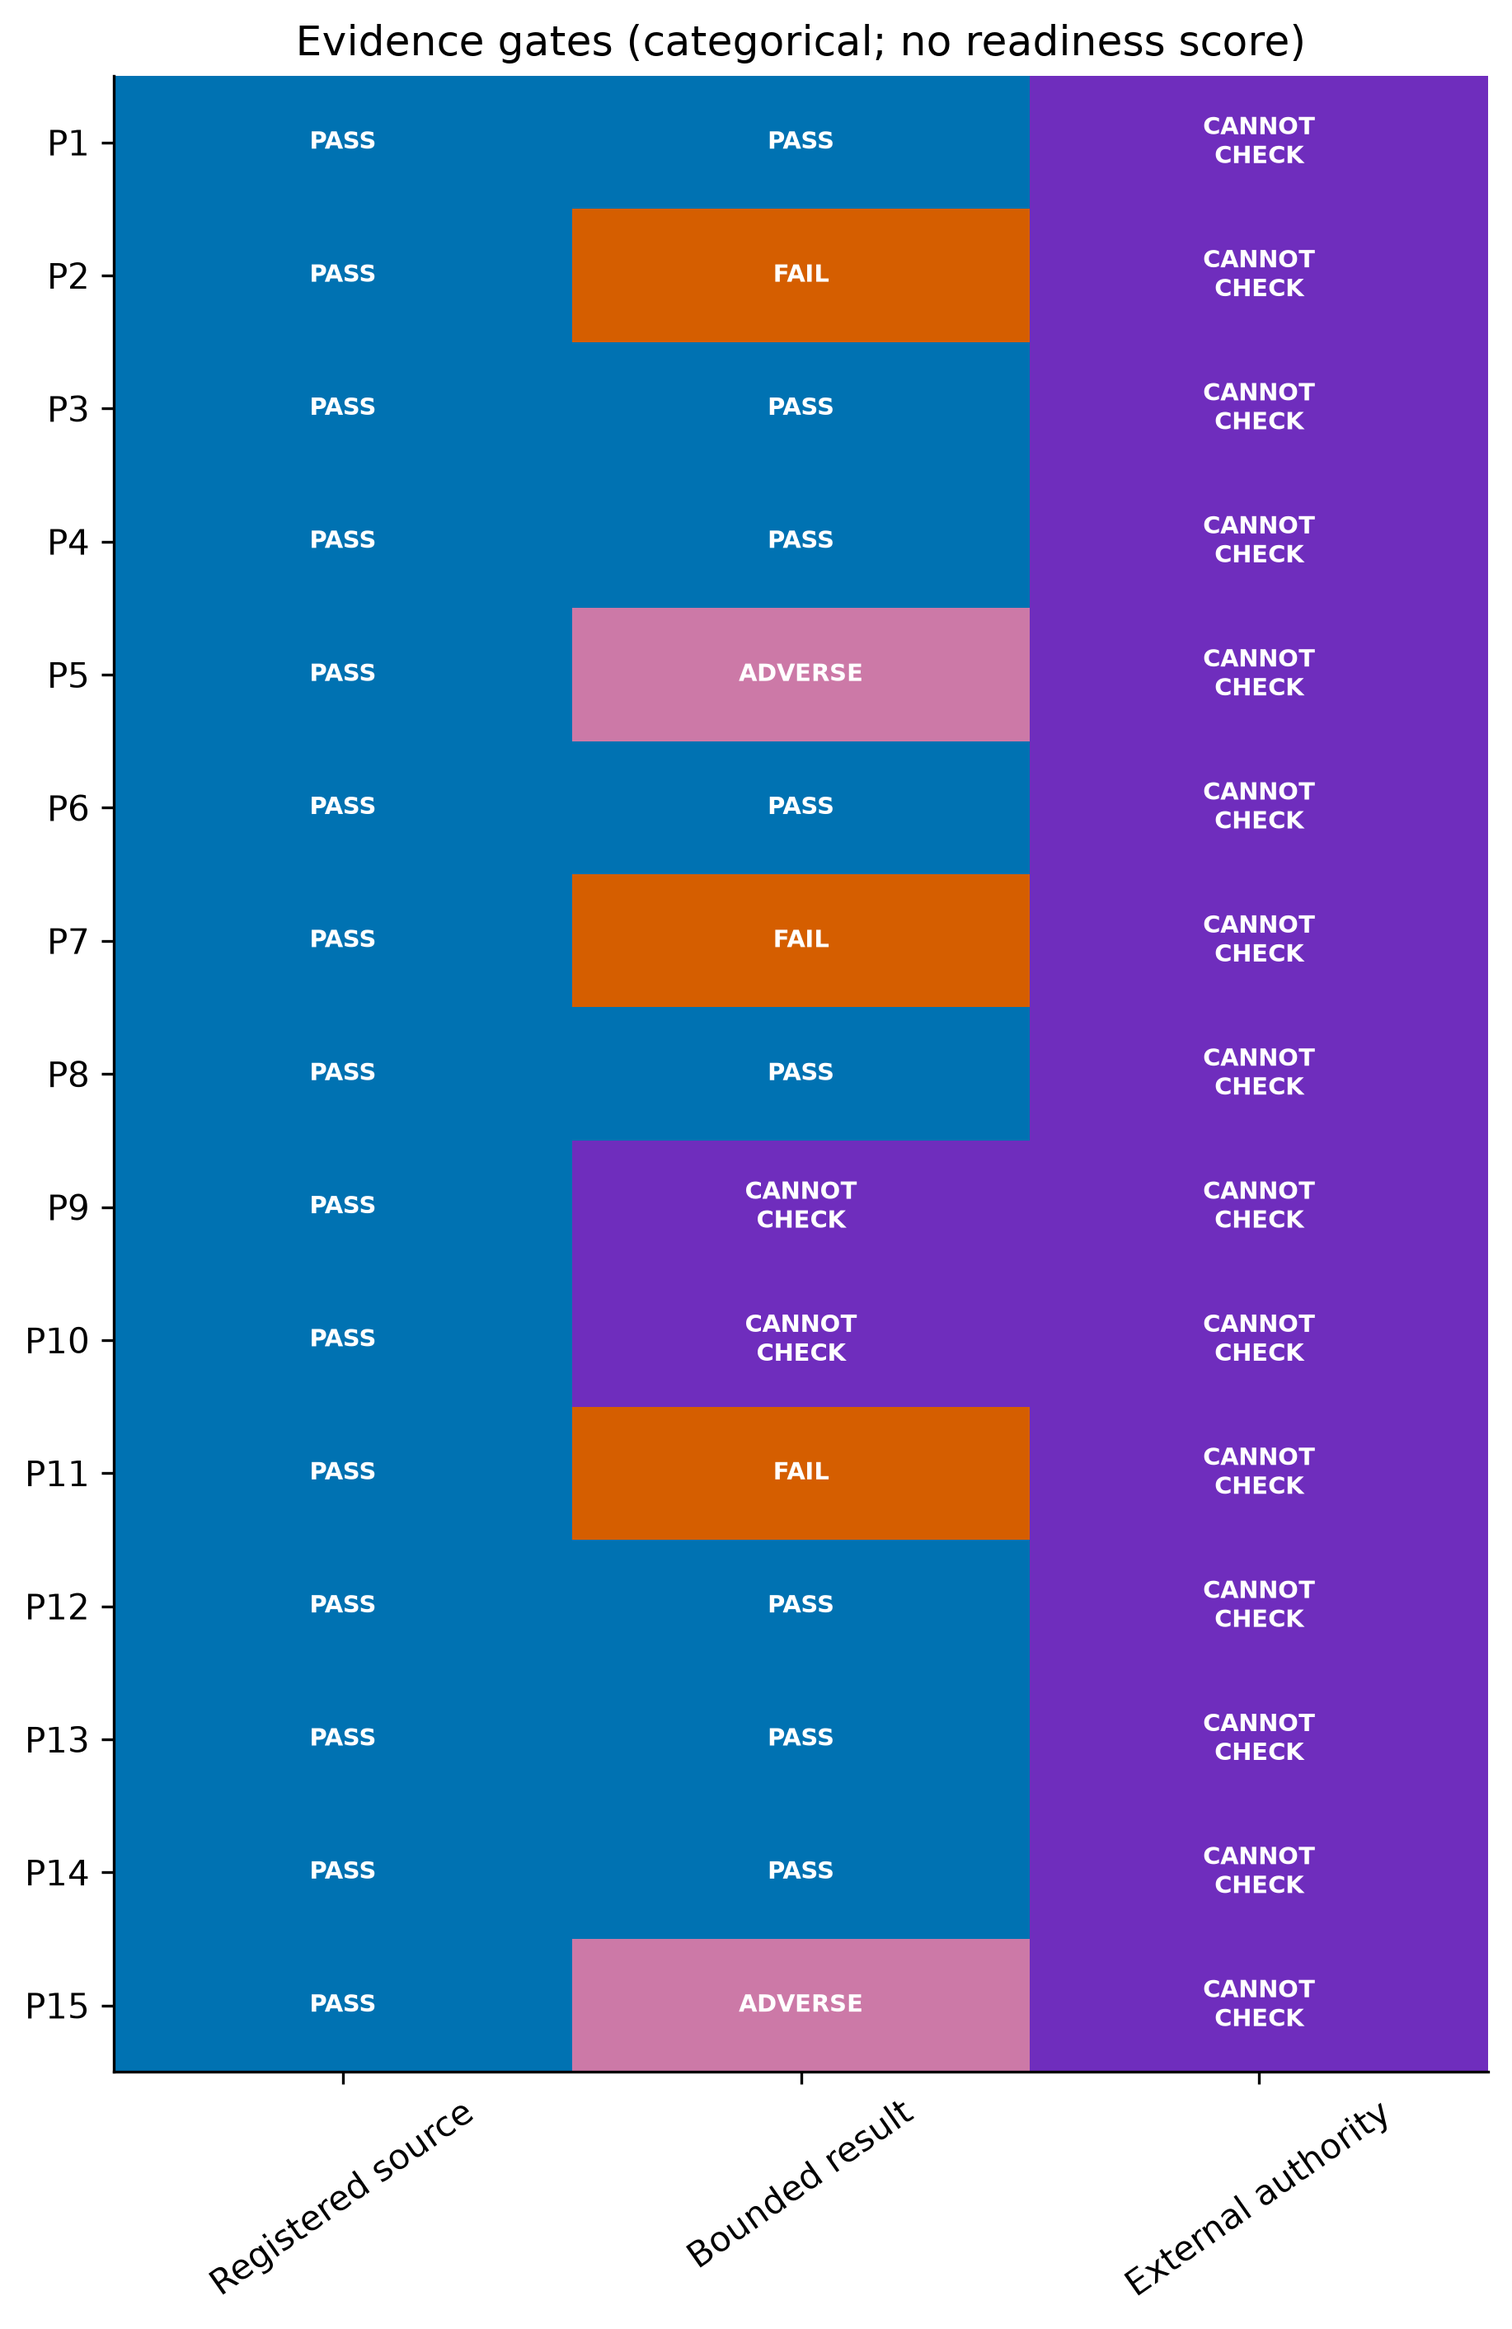
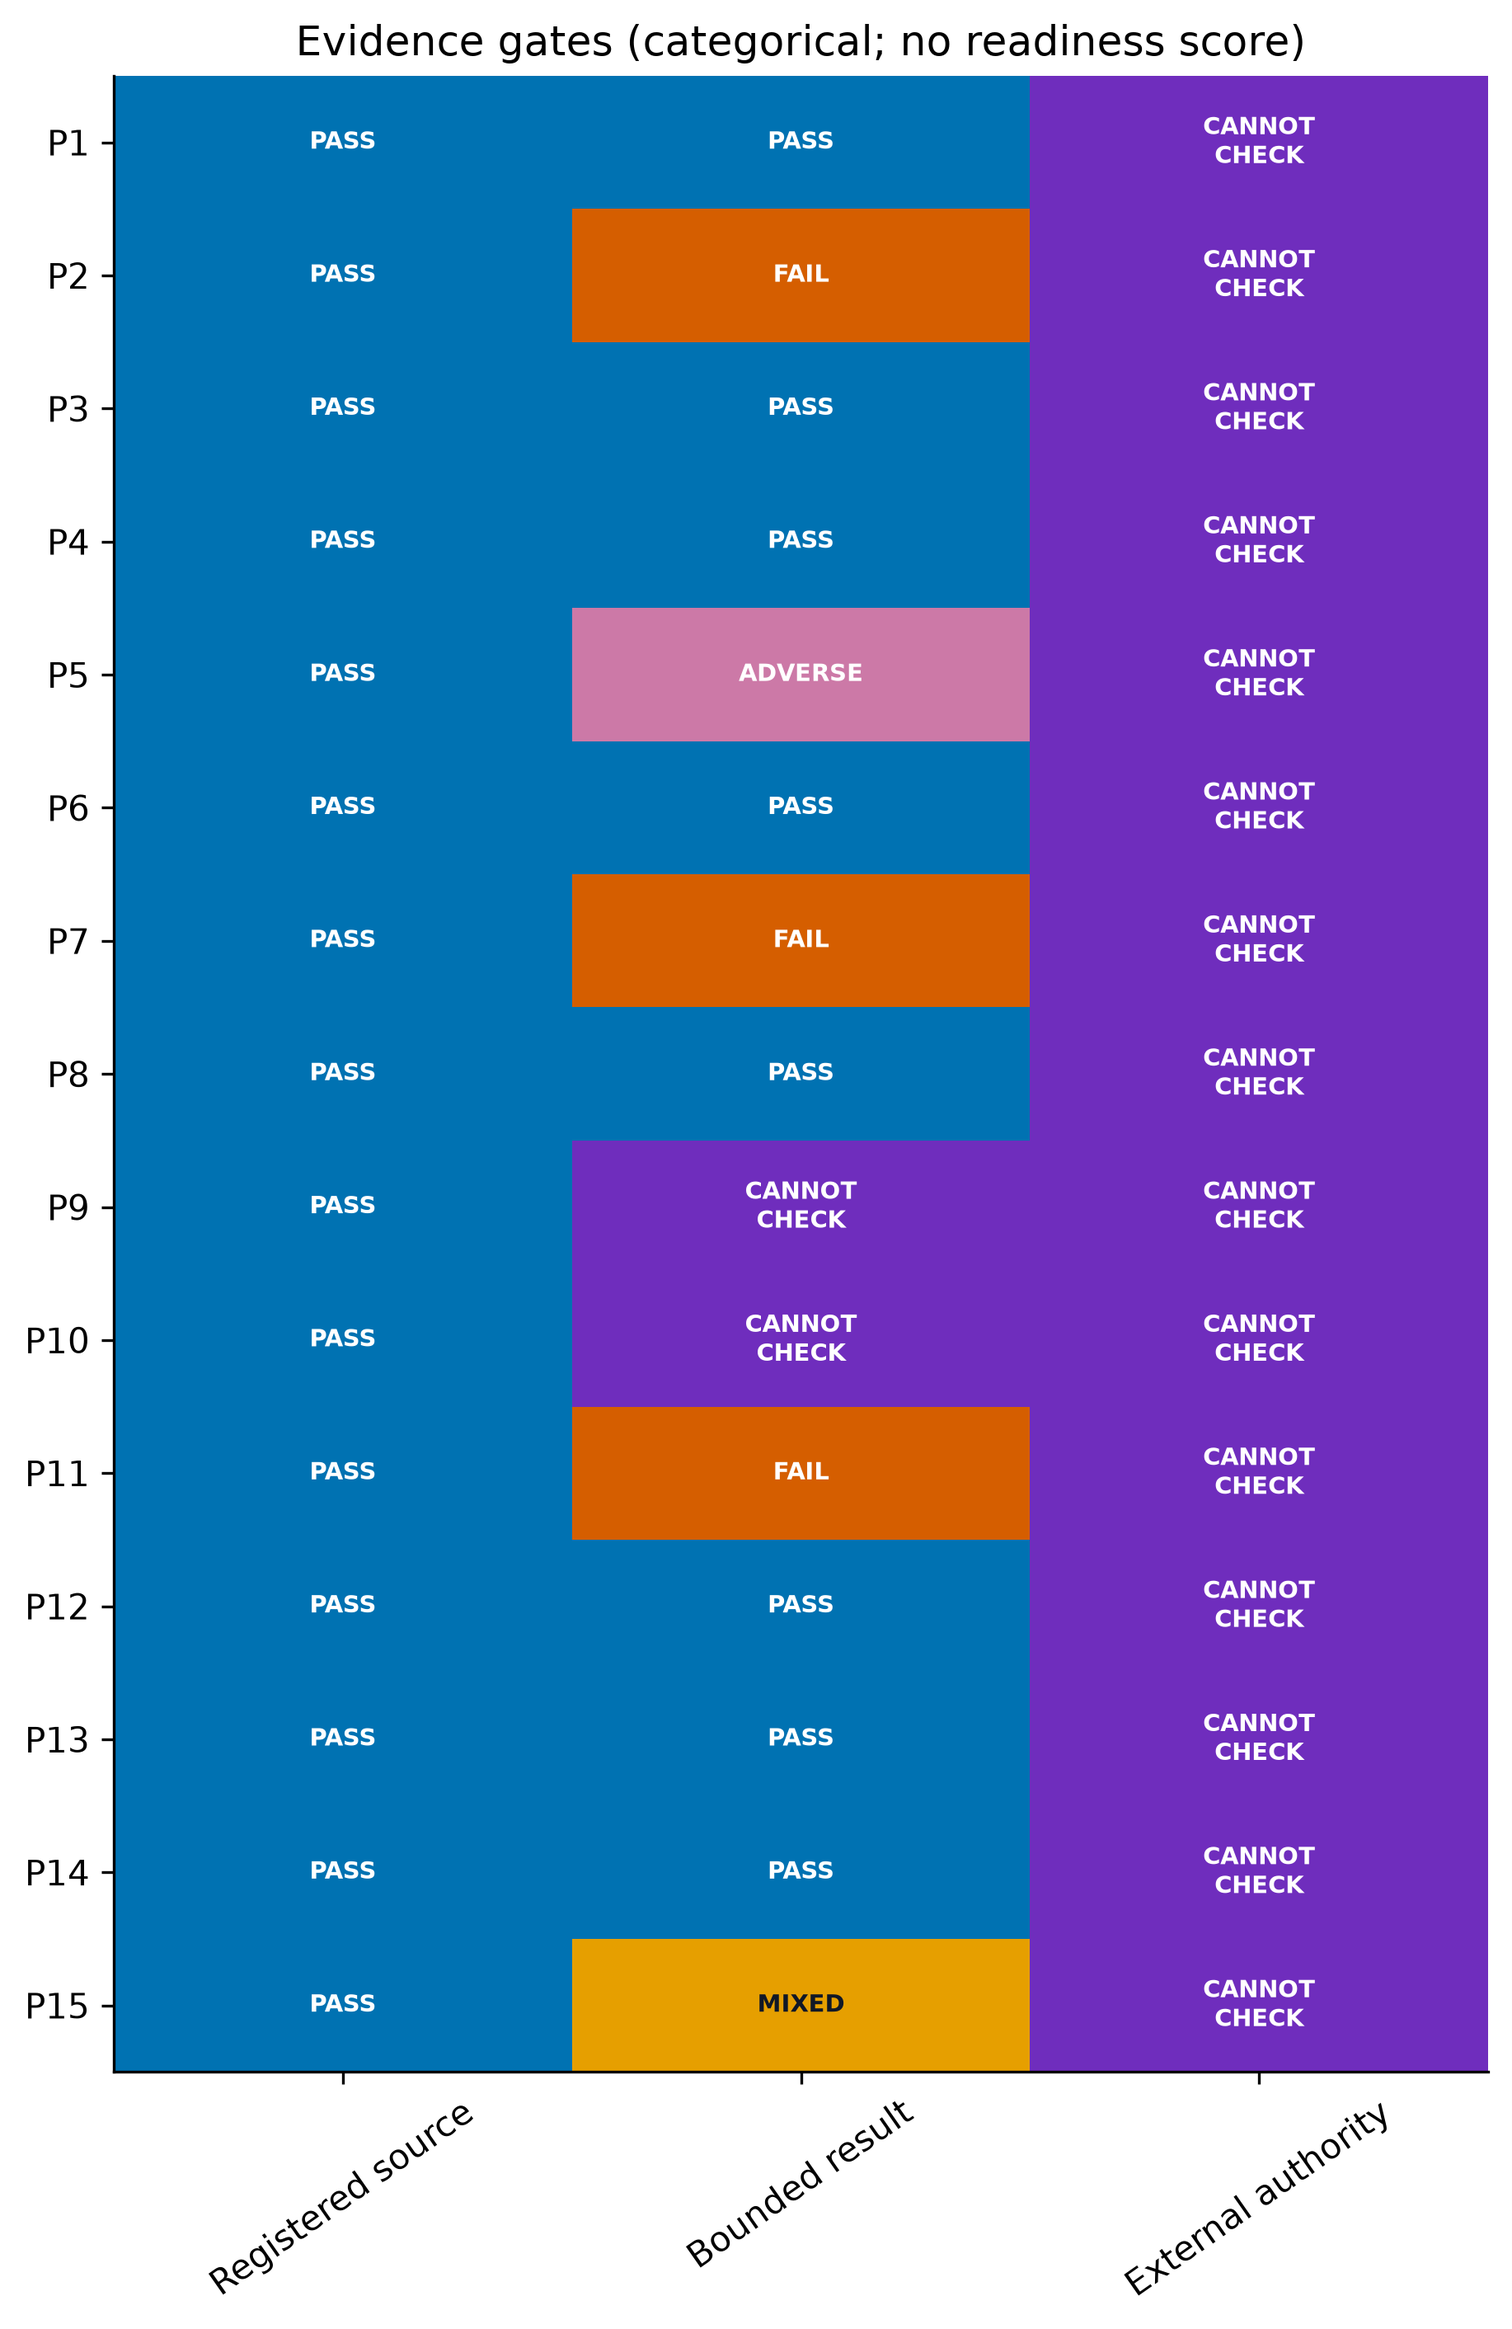
fix visualization status and notebook fidelity

Changed region(s): [[0.373, 0.8102, 0.6838, 0.9037]]

diff --git a/visualization/tests/test_atlas.py b/visualization/tests/test_atlas.py
@@ -3,6 +3,7 @@ from __future__ import annotations
 import importlib.util
 import hashlib
 import json
+import os
 from pathlib import Path
 
 
@@ -21,6 +22,26 @@ def load_script(name: str):
     module = importlib.util.module_from_spec(spec)
     spec.loader.exec_module(module)
     return module
+
+
+def execute_notebook_with_parameters(name: str, overrides: dict[str, object]) -> dict:
+    notebook = json.loads((VIS / "notebooks" / name).read_text(encoding="utf-8"))
+    namespace: dict[str, object] = {"__name__": "__review_test__"}
+    previous = Path.cwd()
+    try:
+        os.chdir(VIS)
+        for index, cell in enumerate(notebook["cells"]):
+            if cell["cell_type"] != "code":
+                continue
+            source = "".join(cell.get("source", []))
+            exec(compile(source, f"{name}:{index}", "exec"), namespace, namespace)
+            if "plt" in namespace:
+                namespace["plt"].show = lambda *args, **kwargs: None
+            if "parameters" in cell.get("metadata", {}).get("tags", []):
+                namespace.update(overrides)
+        return namespace
+    finally:
+        os.chdir(previous)
 
 
 def test_atlas_has_exact_canonical_paper_and_source_counts() -> None:
@@ -189,6 +210,43 @@ def test_notebooks_are_valid_json_with_latex_parameters_and_compilable_code() ->
                 compile("".join(cell.get("source", [])), f"{path.name}:{index}", "exec")
 
 
+def test_governance_notebook_nondefault_metric_uses_neutral_dynamic_copy() -> None:
+    namespace = execute_notebook_with_parameters(
+        "03_p11_p15_state_governance_harness.ipynb",
+        {"METRIC_NAME": "compiled_minus_universal_delta", "MIN_VALUE": None},
+    )
+    ax = namespace["ax"]
+    assert len(namespace["selected_metrics"]) == 30
+    assert "compiled minus universal delta" in ax.get_title().lower()
+    assert "unsafe reuse" not in ax.get_title().lower()
+    assert "p13" not in ax.get_title().lower()
+    assert "lower is better" not in ax.get_xlabel().lower()
+
+
+def test_anomaly_notebook_has_no_unsupported_ordinal_severity_filter() -> None:
+    path = VIS / "notebooks/04_anomaly_audit.ipynb"
+    notebook = json.loads(path.read_text(encoding="utf-8"))
+    code = "\n".join(
+        "".join(cell.get("source", []))
+        for cell in notebook["cells"]
+        if cell["cell_type"] == "code"
+    )
+    assert "SEVERITY_RANK" not in code
+    assert "MIN_SEVERITY_RANK" not in code
+
+    namespace = execute_notebook_with_parameters(path.name, {})
+    assert len(namespace["selected_anomalies"]) == 14
+    assert {row["severity"] for row in namespace["selected_anomalies"]} == {
+        "ADVERSE",
+        "BOUNDARY",
+        "CANNOT_CHECK",
+        "FAIL",
+        "MIXED",
+        "NOT_AUTHORITY",
+        "NULL",
+    }
+
+
 def test_interactive_html_is_self_contained_and_filterable() -> None:
     text = (VIS / "figures/interactive/evidence_atlas.html").read_text(encoding="utf-8")
     lower = text.lower()
@@ -210,6 +268,11 @@ def test_interactive_html_is_self_contained_and_filterable() -> None:
 
 
 def test_figure_copy_separates_receipt_disposition_from_external_authority() -> None:
+    gate_svg = (VIS / "figures/static/svg/01_paper_gate_matrix.svg").read_text(
+        encoding="utf-8"
+    )
+    assert ">MIXED<" in gate_svg
+
     p15_svg = (VIS / "figures/static/svg/12_p15_workflow_matrix.svg").read_text(
         encoding="utf-8"
     )

diff --git a/visualization/scripts/make_notebooks.py b/visualization/scripts/make_notebooks.py
@@ -681,13 +681,19 @@ if selected_metrics:
     values = [numeric_value(row) for row in rows]
     unit = str(first(rows[0], "unit", default="receipt unit"))
     metric_label = human_label(METRIC_NAME, 40)
+    is_unsafe_reuse = METRIC_NAME == "unsafe_reuse_rate"
+    direction_note = "; lower is better" if is_unsafe_reuse else ""
     y = list(range(len(values)))
     bars = ax.barh(y, values, height=0.62, color="#455a64")
     ax.set_yticks(y, labels)
     ax.invert_yaxis()
-    ax.set_xlabel(f"{metric_label} ({unit}; lower is better)")
-    ax.set_ylabel("paper and arm")
-    ax.set_title("Unsafe reuse by P13 control arm (bounded internal receipts)")
+    ax.set_xlabel(f"{metric_label} ({unit}{direction_note})")
+    ax.set_ylabel("paper and receipt row")
+    ax.set_title(
+        "Unsafe reuse by P13 control arm (bounded internal receipts)"
+        if is_unsafe_reuse
+        else f"Raw receipt values: {metric_label}"
+    )
     if unit.lower() in {"rate", "fraction", "proportion", "probability"}:
         ax.set_xlim(0, 1)
     for bar, value in zip(bars, values):
@@ -702,7 +708,11 @@ if selected_metrics:
     fig.text(
         0.5,
         0.01,
-        "A zero bar is a bounded receipt value, not evidence of external safety authority.",
+        (
+            "A zero bar is a bounded receipt value, not evidence of external safety authority."
+            if is_unsafe_reuse
+            else "Receipt-level display only; favorable direction and external authority are not inferred."
+        ),
         ha="center",
         fontsize=9,
         color="#455a64",
@@ -778,17 +788,15 @@ and apply non-escalation componentwise. A favorable scalar coordinate cannot era
     _markdown(
         "anomaly-controls-doc",
         r"""
-## Editable selectors and triage threshold
+## Editable selectors and exact-label filter
 
-Severity rank is a **display-only triage order**, not scientific authority. Unknown severities are retained at rank 0 by default. The unfiltered anomaly count is always printed.
+Anomaly labels are categorical and are not assigned an unsupported ordinal severity rank. Paper and exact-status filters change only the visible subset. The unfiltered anomaly count is always printed.
 """,
     ),
     _code(
         "anomaly-controls",
         r"""
 PAPERS = [f"P{i}" for i in range(1, 16)]
-SEVERITY_RANK = {"INFO": 0, "LOW": 1, "MEDIUM": 2, "HIGH": 3, "CRITICAL": 4}
-MIN_SEVERITY_RANK = 0
 STATUS_CONTAINS = None
 DISPLAY_LIMIT = 100
 """,
@@ -808,7 +816,6 @@ The left plot counts exact stored anomaly labels. The right plot maps each retai
 selected_anomalies = [
     row for row in anomalies
     if paper_id(row) in PAPERS
-    and SEVERITY_RANK.get(str(first(row, "severity", default="INFO")).upper(), 0) >= MIN_SEVERITY_RANK
     and (STATUS_CONTAINS is None or STATUS_CONTAINS.upper() in exact_status(row).upper())
 ]
 severity_labels = sorted({str(first(row, "severity", default="UNSPECIFIED")) for row in selected_anomalies})

diff --git a/visualization/tests/test_core.py b/visualization/tests/test_core.py
@@ -67,6 +67,10 @@ def test_status_classification_preserves_non_success_states(
     assert classify_status(raw) is expected
 
 
+def test_status_classification_preserves_mixed_as_a_distinct_state() -> None:
+    assert classify_status("mixed").value == "MIXED"
+
+
 def test_status_classification_rejects_unrecognised_values() -> None:
     with pytest.raises(ValueError, match="unrecognised evidence status"):
         classify_status("looks-good")
@@ -80,6 +84,7 @@ def test_status_palette_has_distinct_colors() -> None:
         EvidenceStatus.CANNOT_CHECK,
         EvidenceStatus.NULL,
         EvidenceStatus.ADVERSE,
+        EvidenceStatus("MIXED"),
     }
     assert required <= STATUS_COLORS.keys()
     assert len({STATUS_COLORS[item] for item in required}) == len(required)
@@ -166,12 +171,12 @@ def test_numeric_plot_suite_renders(tmp_path: Path) -> None:
 
 def test_categorical_and_dependency_plots_render(tmp_path: Path) -> None:
     fig, ax = plot_status_matrix(
-        [["PASS", "FAIL"], [None, "CANNOT_CHECK"]],
-        ["P1", "P2"],
+        [["PASS", "FAIL"], [None, "CANNOT_CHECK"], ["MIXED", "ADVERSE"]],
+        ["P1", "P2", "P15"],
         ["replay", "external"],
     )
     cell_text = {text.get_text() for text in ax.texts}
-    assert {"PASS", "FAIL", "NULL", "CANNOT\nCHECK"} <= cell_text
+    assert {"PASS", "FAIL", "NULL", "CANNOT\nCHECK", "MIXED", "ADVERSE"} <= cell_text
     assert "UNKNOWN" not in {text.get_text() for text in ax.get_legend().get_texts()}
     _assert_rendered(fig, tmp_path, "status-matrix")
 

diff --git a/visualization/src/orion_visualization/styles.py b/visualization/src/orion_visualization/styles.py
@@ -26,6 +26,7 @@ STATUS_COLORS: dict[EvidenceStatus, str] = {
     EvidenceStatus.CANNOT_CHECK: "#6F2DBD",  # purple
     EvidenceStatus.NULL: "#B8B8B8",  # light gray
     EvidenceStatus.ADVERSE: "#CC79A7",  # reddish purple
+    EvidenceStatus.MIXED: "#E69F00",  # orange
 }
 
 STATUS_MARKERS: dict[EvidenceStatus, str] = {
@@ -35,6 +36,7 @@ STATUS_MARKERS: dict[EvidenceStatus, str] = {
     EvidenceStatus.CANNOT_CHECK: "s",
     EvidenceStatus.NULL: "P",
     EvidenceStatus.ADVERSE: "v",
+    EvidenceStatus.MIXED: "h",
 }
 
 STATUS_SYMBOLS: dict[EvidenceStatus, str] = {
@@ -44,6 +46,7 @@ STATUS_SYMBOLS: dict[EvidenceStatus, str] = {
     EvidenceStatus.CANNOT_CHECK: "C/C",
     EvidenceStatus.NULL: "null",
     EvidenceStatus.ADVERSE: "adv",
+    EvidenceStatus.MIXED: "mix",
 }
 
 

diff --git a/visualization/src/orion_visualization/plots.py b/visualization/src/orion_visualization/plots.py
@@ -402,10 +402,13 @@ def plot_status_matrix(
         EvidenceStatus.CANNOT_CHECK: "CANNOT CHECK",
         EvidenceStatus.NULL: "NULL",
         EvidenceStatus.ADVERSE: "ADVERSE",
+        EvidenceStatus.MIXED: "MIXED",
     }
     for row_index, states in enumerate(classified):
         for column_index, state in enumerate(states):
-            text_color = "#111827" if state in {EvidenceStatus.NULL} else "white"
+            text_color = (
+                "#111827" if state in {EvidenceStatus.NULL, EvidenceStatus.MIXED} else "white"
+            )
             label = display[state].replace(" ", "\n")
             ax.text(
                 column_index,

diff --git a/visualization/scripts/render_all.py b/visualization/scripts/render_all.py
@@ -47,13 +47,12 @@ def evidence_status(value: str) -> str:
     mapping = {
         "BOUNDED_PASS": "PASS",
         "BOUNDARY": "NULL",
-        "MIXED": "ADVERSE",
         "NOT_AUTHORITY": "CANNOT_CHECK",
     }
     return mapping.get(
         value,
         value
-        if value in {"PASS", "FAIL", "UNKNOWN", "CANNOT_CHECK", "NULL", "ADVERSE"}
+        if value in {"PASS", "FAIL", "UNKNOWN", "CANNOT_CHECK", "NULL", "ADVERSE", "MIXED"}
         else "UNKNOWN",
     )
 

diff --git a/visualization/src/orion_visualization/authority.py b/visualization/src/orion_visualization/authority.py
@@ -20,6 +20,7 @@ class EvidenceStatus(str, Enum):
     CANNOT_CHECK = "CANNOT_CHECK"
     NULL = "NULL"
     ADVERSE = "ADVERSE"
+    MIXED = "MIXED"
 
 
 class AuthorityLevel(str, Enum):
@@ -56,6 +57,7 @@ _ALIASES: dict[str, EvidenceStatus] = {
     "adverse_result": EvidenceStatus.ADVERSE,
     "harmful": EvidenceStatus.ADVERSE,
     "negative_result": EvidenceStatus.ADVERSE,
+    "mixed": EvidenceStatus.MIXED,
 }
 
 

diff --git a/visualization/reports/FIGURE_QA.md b/visualization/reports/FIGURE_QA.md
@@ -10,7 +10,7 @@ or a journal-readiness ranking.
 | Figure | Reader purpose | Evidence unit and estimand | Scale and representation contract | Adverse/authority safeguard |
 |---|---|---|---|---|
 | `00_framework_map` | Understand which paper conceptually informs which later component. | P1-P15 registry nodes and declared conceptual-dependency edges; no numeric estimand. | Compact three-lane directed graph; arrowheads mean conceptual dependency, not causal effect. | Direction and non-causal edge semantics are printed in the figure. |
-| `01_paper_gate_matrix` | See which independent evidence gate is recorded for every paper without scalarization. | One categorical receipt state per paper × gate. | Canonical P1-P15 row order; nominal colors plus full in-cell state names; no ordered colorbar. | `FAIL`, `UNKNOWN`, `CANNOT CHECK`, `NULL`, and `ADVERSE` remain explicit. |
+| `01_paper_gate_matrix` | See which independent evidence gate is recorded for every paper without scalarization. | One categorical receipt state per paper × gate. | Canonical P1-P15 row order; nominal colors plus full in-cell state names; no ordered colorbar. | `FAIL`, `UNKNOWN`, `CANNOT CHECK`, `NULL`, `ADVERSE`, and `MIXED` remain explicit. |
 | `02_p1_hidden_shift_forest` | Estimate the paired hidden-shift success difference between ORION and each comparator. | 480 paired cases per comparator; ORION minus comparator success-rate difference. | Percentage-point x-axis includes zero; receipt-reported 95% paired-bootstrap intervals and values are printed. | Intervals describe numeric uncertainty only; external authority is not encoded. |
 | `03_p1_cost_success_pareto` | Inspect the observed budget/success trade-off among registered arms. | One arm-level mean budget and protected-root success rate. | Full success-rate context includes zero; observed points are not joined; black outline marks nondomination only within the displayed grid. | Every coincident arm is named; the figure states that external authority remains `CANNOT CHECK`. |
 | `04_p2_retrieval_rates` | Compare Recall@100 and nDCG@10 without treating them as the same quantity. | One 50-topic macro rate per arm and metric. | Two aligned dot panels, each fixed to 0-1; exact values are printed. | Overall `FAIL` and its recall-interval/cost reasons are printed; nDCG cannot rescue the frozen gate. |
